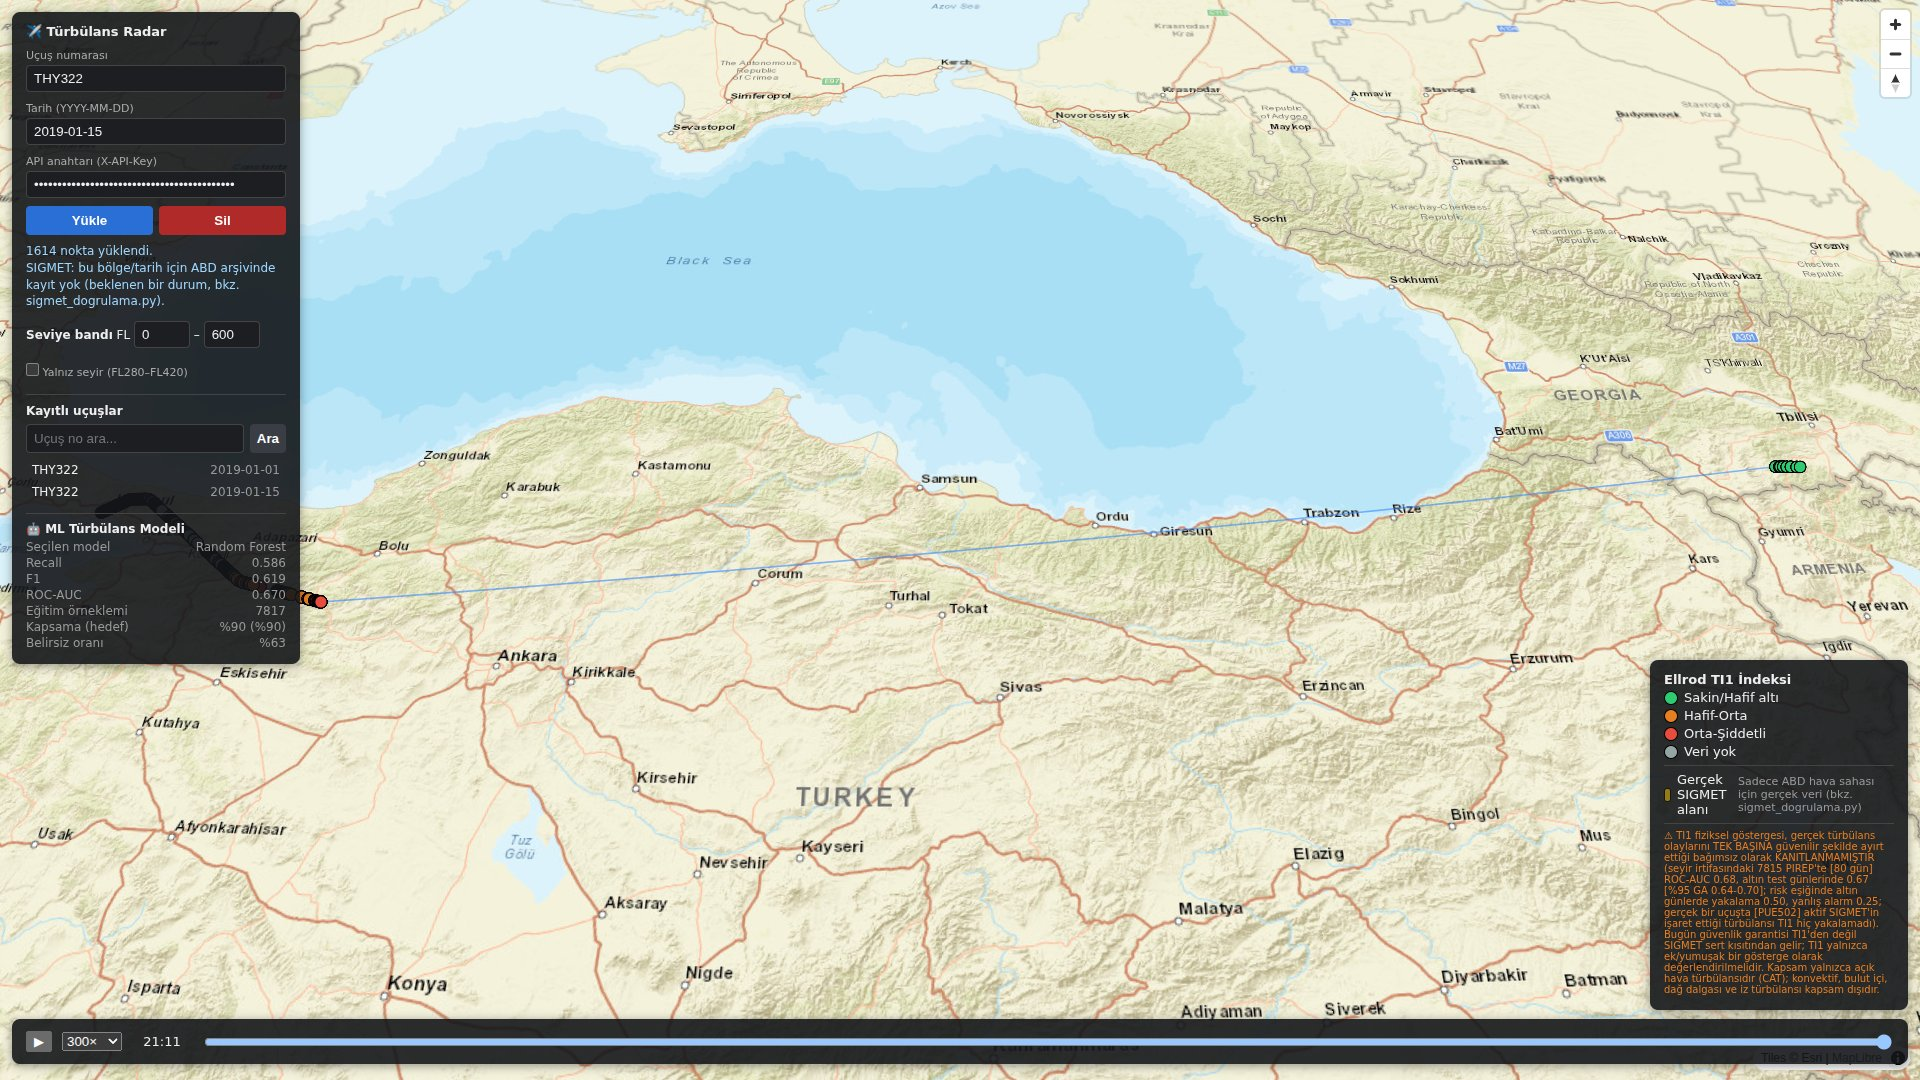
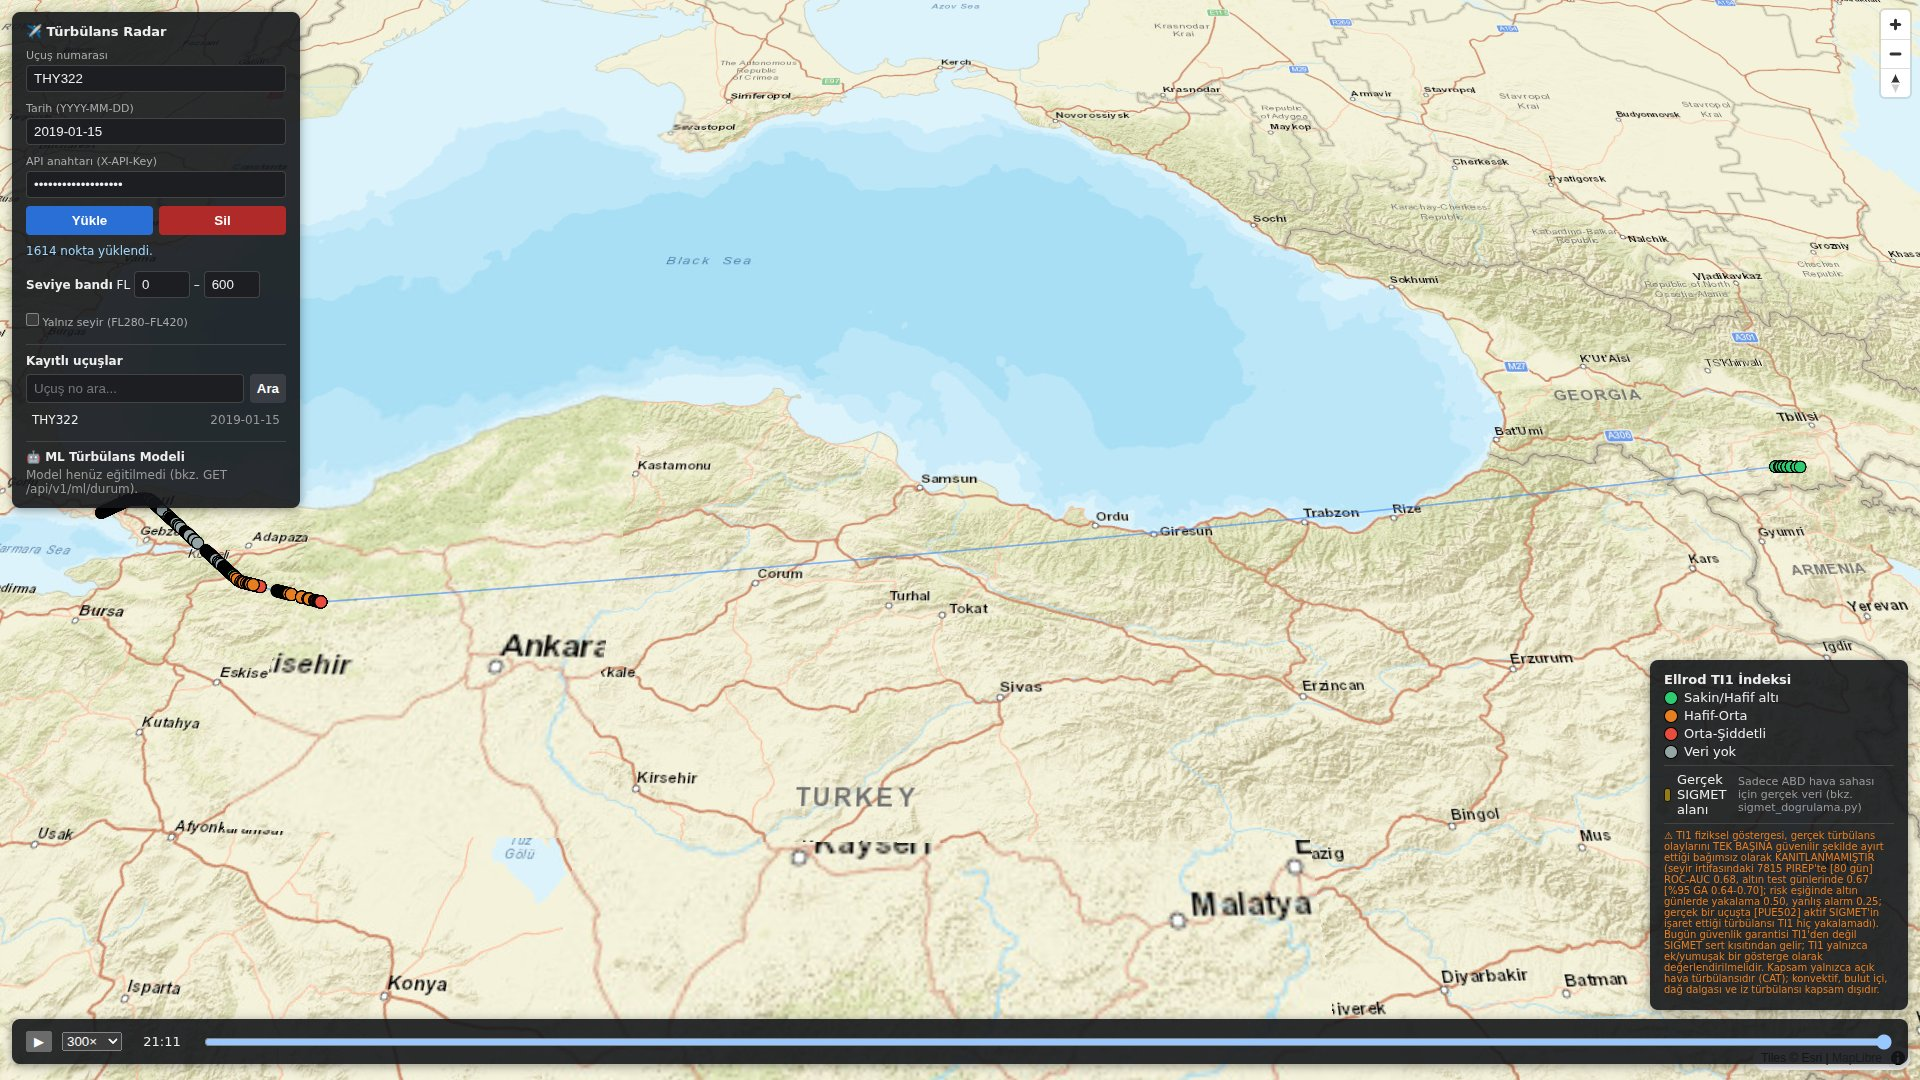
Demo senaryosu temiz klon sonucuna göre (yanal 105 NM, %9,7); ekranlar yenilendi; ekran aracı Cesium saatini bekler

diff --git a/docs/sunum/poster.html b/docs/sunum/poster.html
@@ -117,7 +117,7 @@ footer { border-top: 3px solid var(--murekkep); padding-top: 12px; font-size: 12
 
     <figure class="genis">
       <img src="ekranlar/02_simulasyon_turbulanstan_kacinma.jpg" alt="Rota simülasyonu: büyük daire ve türbülanstan kaçınan optimize rota, sonuç tablosu">
-      <figcaption><b>İstanbul → Doğu Anadolu, FL350, 15.01.2019 20:00 UTC (ERA5).</b> Büyük daire rotasında ~214 NM / 26 dk riskli bölüm (kırmızı). Yanal sapmalar kısıtlı sahaya girdiği için sistem FL370'e tırmanmayı öneriyor; riskli bölüm ~16 NM / 2 dk'ya iniyor ve ekranda dürüstçe kalıyor. Bedel: %0,8 yakıt. Risk eşiği 7e-7 (veriden seçildi).</figcaption>
+      <figcaption><b>İstanbul → Doğu Anadolu, FL350, 15.01.2019 20:00 UTC (ERA5).</b> Büyük daire rotasında ~214 NM / 26 dk riskli bölüm (kırmızı). Sistem en ucuz tam güvenli seçeneği öneriyor: 105 NM sola yanal sapma, riskli bölüm tamamen atlatılıyor (+7,8 dk, %9,7 yakıt). Alternatif FL370 %0,8 yakıtla 1 riskli nokta bırakıyor; seçim dispeçerin. Risk eşiği 7e-7 (veriden seçildi).</figcaption>
     </figure>
 
     <section>

diff --git a/src/turbulans_radar/cli/demo_ekranlari.py b/src/turbulans_radar/cli/demo_ekranlari.py
@@ -41,6 +41,12 @@ SENARYOLAR = {
 
 
 YEREL_ADRESLER = {"localhost", "127.0.0.1", "::1"}
+# Yazılımsal WebGL yükte yavaşlar; sabit bekleme yerine CZML saati 5 dk ilerleyene
+# (kamera rotaya oturup çizim başlayana) kadar beklenir.
+SAAT_ILERLEDI = (
+    "typeof viewer !== 'undefined' && viewer.dataSources.length > 0 && "
+    "Cesium.JulianDate.secondsDifference(viewer.clock.currentTime, viewer.clock.startTime) > 300"
+)
 
 
 def ag_engelleyici(engellenenler: list):
@@ -98,7 +104,8 @@ def simulasyon(sayfa, taban_url, anahtar, senaryo, yol):
     sayfa.fill("#zaman", senaryo["zaman"])
     sayfa.click("#simule-et-buton")
     sayfa.wait_for_function("document.getElementById('s-optimize-sure').innerText.trim().length > 0", timeout=120_000)
-    sayfa.wait_for_timeout(6000)
+    sayfa.wait_for_function(SAAT_ILERLEDI, timeout=60_000)
+    sayfa.wait_for_timeout(2000)
     sayfa.screenshot(path=yol, type="jpeg", quality=85)
     return sayfa.inner_text("#strateji-satiri") + " | " + sayfa.inner_text("#tasarruf-satiri")
 

diff --git a/docs/sunum/DEMO_SENARYOSU.md b/docs/sunum/DEMO_SENARYOSU.md
@@ -3,7 +3,7 @@
 Jüri sunumundaki canlı demo ve yedek video için adım adım akış. Demo, depodaki
 demo paketiyle (THY322, 15 Ocak 2019, gerçek OpenSky izi + ERA5 dilimi) **ağ
 bağlantısı ve kimlik bilgisi olmadan** çalışır. Aşağıdaki tüm sayılar bu paketle
-5 Ekim 2026'da (çevreleyen katman fiziğiyle, ağsız provada) alınmış gerçek çıktılardır; ekran görüntüleri `ekranlar/`
+14 Ekim 2026'da temiz demo klonunda (yalnız depodaki ERA5 dilimi ve örnek kısıtlı sahalar, ağsız provada) alınmış gerçek çıktılardır; ekran görüntüleri `ekranlar/`
 klasöründedir ve `turbulans-demo-ekranlari` ile yeniden üretilir.
 
 Sistem sertifikalı EDR üretmez; karar destek aracıdır. Demo boyunca bu cümle
@@ -42,9 +42,11 @@ en az bir kez söylenmelidir.
 
    Kapsayıcıların da ağa çıkmadığını sınamak için demo klonunda
    `docker-compose.override.yml` ile `api`, `worker` ve `demo` servislerine
-   `dns: [127.0.0.1]` verin. 5 Ekim 2026 provası bu düzenle geçti: kapsayıcılar dış
-   adres çözemedi, tarayıcıda yalnız Esri karoları (~600 istek) kesildi, üç adım da
-   tamamlandı.
+   `dns: [127.0.0.1]` verin. 5 ve 14 Ekim 2026 provaları bu düzenle geçti: kapsayıcılar dış
+   adres çözemedi, tarayıcıda yalnız Esri karoları (~600–650 istek) kesildi, üç adım da
+   tamamlandı. Sayılar geliştirme yığınından farklı çıkabilir: orada daha geniş
+   `ocak_2019_turbulans.nc` küpü kullanılır ve senaryo 4'te FL370 seçilir; anlatım
+   temiz klonun sonucuna göredir.
 
 5. Yedek videoyu kaydedin (bkz. §4) ve sunum bilgisayarına kopyalayın.
 
@@ -64,8 +66,8 @@ en az bir kez söylenmelidir.
 | 1 | 0:30 | Terminal | `docker compose ps` (db, api, worker sağlıklı); Wi-Fi kapalı | "Sistem dizüstünde, internet bağlantısı yok. Veri, depoyla gelen gerçek bir uçuş ve gerçek ERA5 dilimi." |
 | 2 | 1:30 | 3B harita | Uçuş `THY322`, tarih `2019-01-15`, **Yükle**. Zaman kaydırıcısını baştan sona sürükleyin | "OpenSky'dan alınmış 1614 gerçek ADS-B noktası. Her nokta, uçağın o anki barometrik irtifasına karşılık gelen basınç seviyesinde ERA5 rüzgarıyla eşleşti ve Ellrod TI1 hesaplandı. Tırmanışın alt kısmı 150–350 hPa dışında kaldığı için 1614 noktanın 720'si hesaplandı, gerisi 'veri yok': sistem kapsamadığı yeri tahmin etmiyor. İzdeki ~1 saatlik boşlukta OpenSky'da kayıt yok; sistem bu boşluğu doldurmuyor." |
 | 3 | 0:30 | 3B harita, sol panel | Model paneli ve lejanttaki TI1 notunu gösterin | "TI1'in tek başına güvenilirliği kanıtlanmadı: seyir irtifasındaki 7.815 PIREP'te ROC-AUC 0,68. Bu not ekranda her zaman duruyor." |
-| 4 | 1:30 | Rota simülasyonu | 41.0, 29.0 → 40.5, 43.5; 35000 ft (doğu yönü, tek FL); 15.01.2019 20:00; A320; **Simüle Et** | "Büyük daire rotasında FL350'de yaklaşık 214 NM, 26 dakikalık riskli bölüm var; kırmızı çizilen kısım. Yanal sapmalar kısıtlı sahalara girdiği için elendi; sistem aynı yönün bir üst yasal seviyesine, FL370'e tırmanmayı öneriyor. Riskli nokta 13'ten 1'e iniyor, bedeli yaklaşık %0,8 yakıt; kalan kısa bölüm ekranda dürüstçe duruyor. Seçim dispeçerin." (Ekran: `ekranlar/02_…`, yeniden çekilmeli) |
-| 5 | 1:00 | Rota simülasyonu | 38.35, 38.31 → 36.34, 43.13 (Malatya → Musul); **Simüle Et** | "Bu kez sert kısıt: normal rota örnek kısıtlı sahaya 11 noktada giriyor, önerilen rota hiç girmiyor (bedeli %6,9 seyir yakıtı). Bu bölge ERA5 diliminin dışında; ekranda türbülans riski '0' değil 'hesaplanmadı' yazıyor, çünkü veri yokken risk yok demek en tehlikeli hata olurdu. SIGMET de aynı sert kısıt mekanizmasıyla çalışıyor." (Ekran: `ekranlar/03_…`) |
+| 4 | 1:30 | Rota simülasyonu | 41.0, 29.0 → 40.5, 43.5; 35000 ft (doğu yönü, tek FL); 15.01.2019 20:00; A320; **Simüle Et** | "Büyük daire rotasında FL350'de yaklaşık 214 NM, 26 dakikalık riskli bölüm var; kırmızı çizilen kısım. Sistem en ucuz TAM güvenli seçeneği öneriyor: 105 NM sola yanal sapma; riskli bölüm tamamen atlatılıyor, bedeli +7,8 dakika ve %9,7 yakıt. Seçenekler tablosunda alternatif de duruyor: aynı yönün bir üst yasal seviyesi FL370 yalnız %0,8 yakıta mal oluyor ama 1 riskli nokta bırakıyor. Güvenlik payı mı yakıt mı, seçim dispeçerin." (Ekran: `ekranlar/02_…`) |
+| 5 | 1:00 | Rota simülasyonu | 38.35, 38.31 → 36.34, 43.13 (Malatya → Musul); **Simüle Et** | "Bu kez sert kısıt: normal rota örnek kısıtlı sahaya 11 noktada giriyor, önerilen rota hiç girmiyor (30 NM sola sapma, bedeli %6,2 seyir yakıtı). Bu bölge ERA5 diliminin dışında; ekranda türbülans riski '0' değil 'hesaplanmadı' yazıyor, çünkü veri yokken risk yok demek en tehlikeli hata olurdu. SIGMET de aynı sert kısıt mekanizmasıyla çalışıyor." (Ekran: `ekranlar/03_…`) |
 | 6 | 0:30 | Slayt | ML ve doğrulama sonuçları slaytına geçin | "Model sonuçlarını canlı değil, ölçülmüş haliyle gösteriyorum. Sistem sertifikalı EDR üretmez; karar destek aracıdır." |
 
 Demo paketinde olmayanlar, slaytla gösterilir:

diff --git a/docs/ISLEM_GUNLUGU.md b/docs/ISLEM_GUNLUGU.md
@@ -10,6 +10,9 @@ Her oturumun kısa özeti, en yeni üstte. Telefondan (GitHub mobil) okunmak iç
 - ✅ Madde 10 (PR #42): .dockerignore + LF → geliştirici/temiz klon bağlamı bayt bayt aynı, imaj 1,78→1,46 GB.
 - ✅ AIRAC alanları (ATS ağı bitişi 29 Eki) → rota `ats.uyarilar` + `/saglik ats_agi: eski`.
 - ✅ 2 kullanım dışı modül silindi, 3 CLI komut oldu; CI demo işi (temiz makinede 80 sn), ubuntu-24.04.
+- ✅ Ağsız demo provası (temiz klon, DNS kapalı) geçti; yalnız Esri karoları kesildi (652).
+- ⚠ Senaryo 2 anlatımı geliştirme küpünden (FL370) alınmıştı; temiz klon yanal 105 NM/%9,7 veriyor → belge, poster, ekranlar düzeltildi.
+- ✅ demo_ekranlari: sabit 6 sn yerine Cesium saati ilerleyince çekim (ekran 03 boş çıkıyordu).
 - ⏳ 18 Eki: SISTEM_KARTI/README mimari denetimi; 29 Eki: AIP yeniden indirme.
 
 ## 2026-10-13 (dallar `claude/kayma-izleme`, `claude/api-router-ayrimi`, `claude/ayar-dogrulama`)
